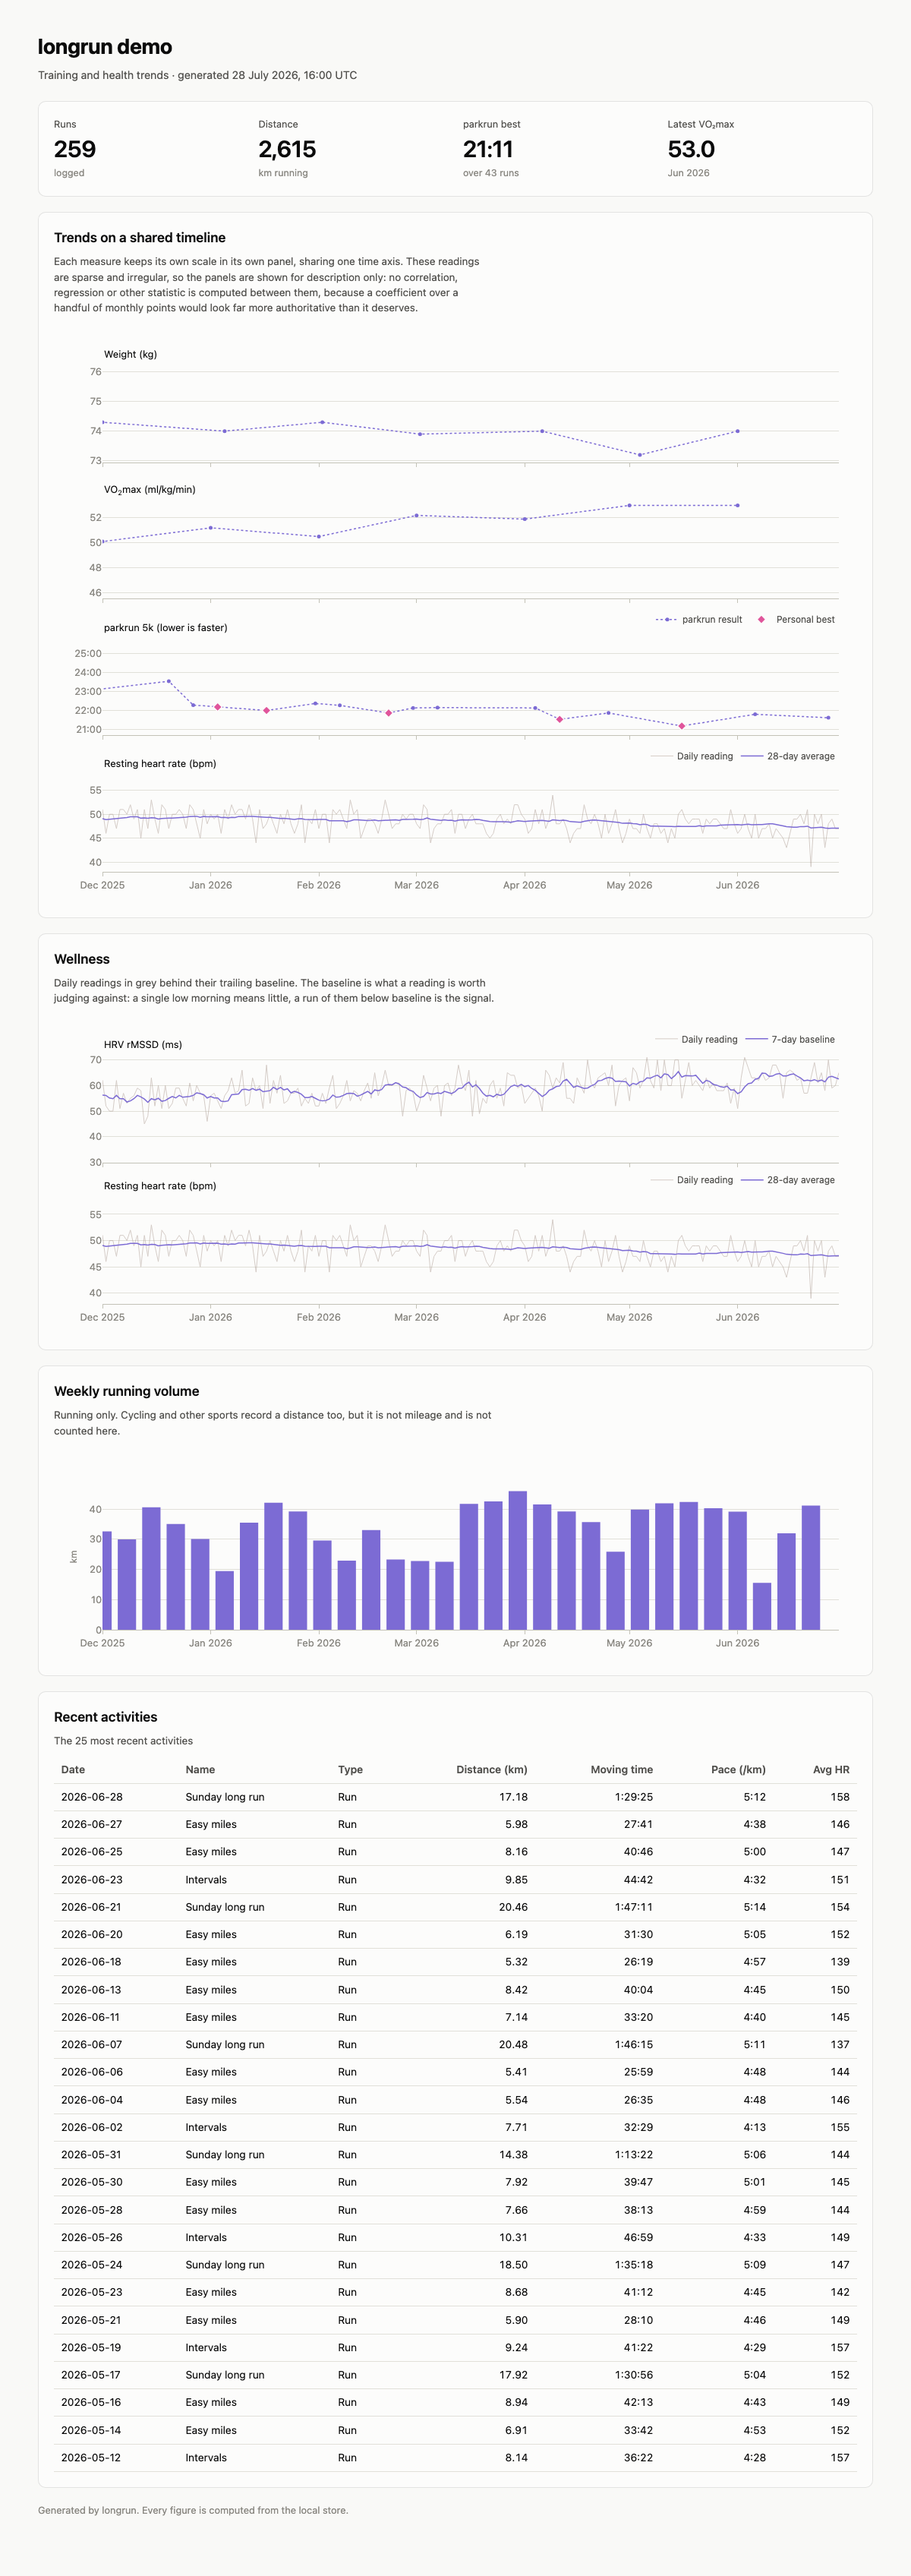
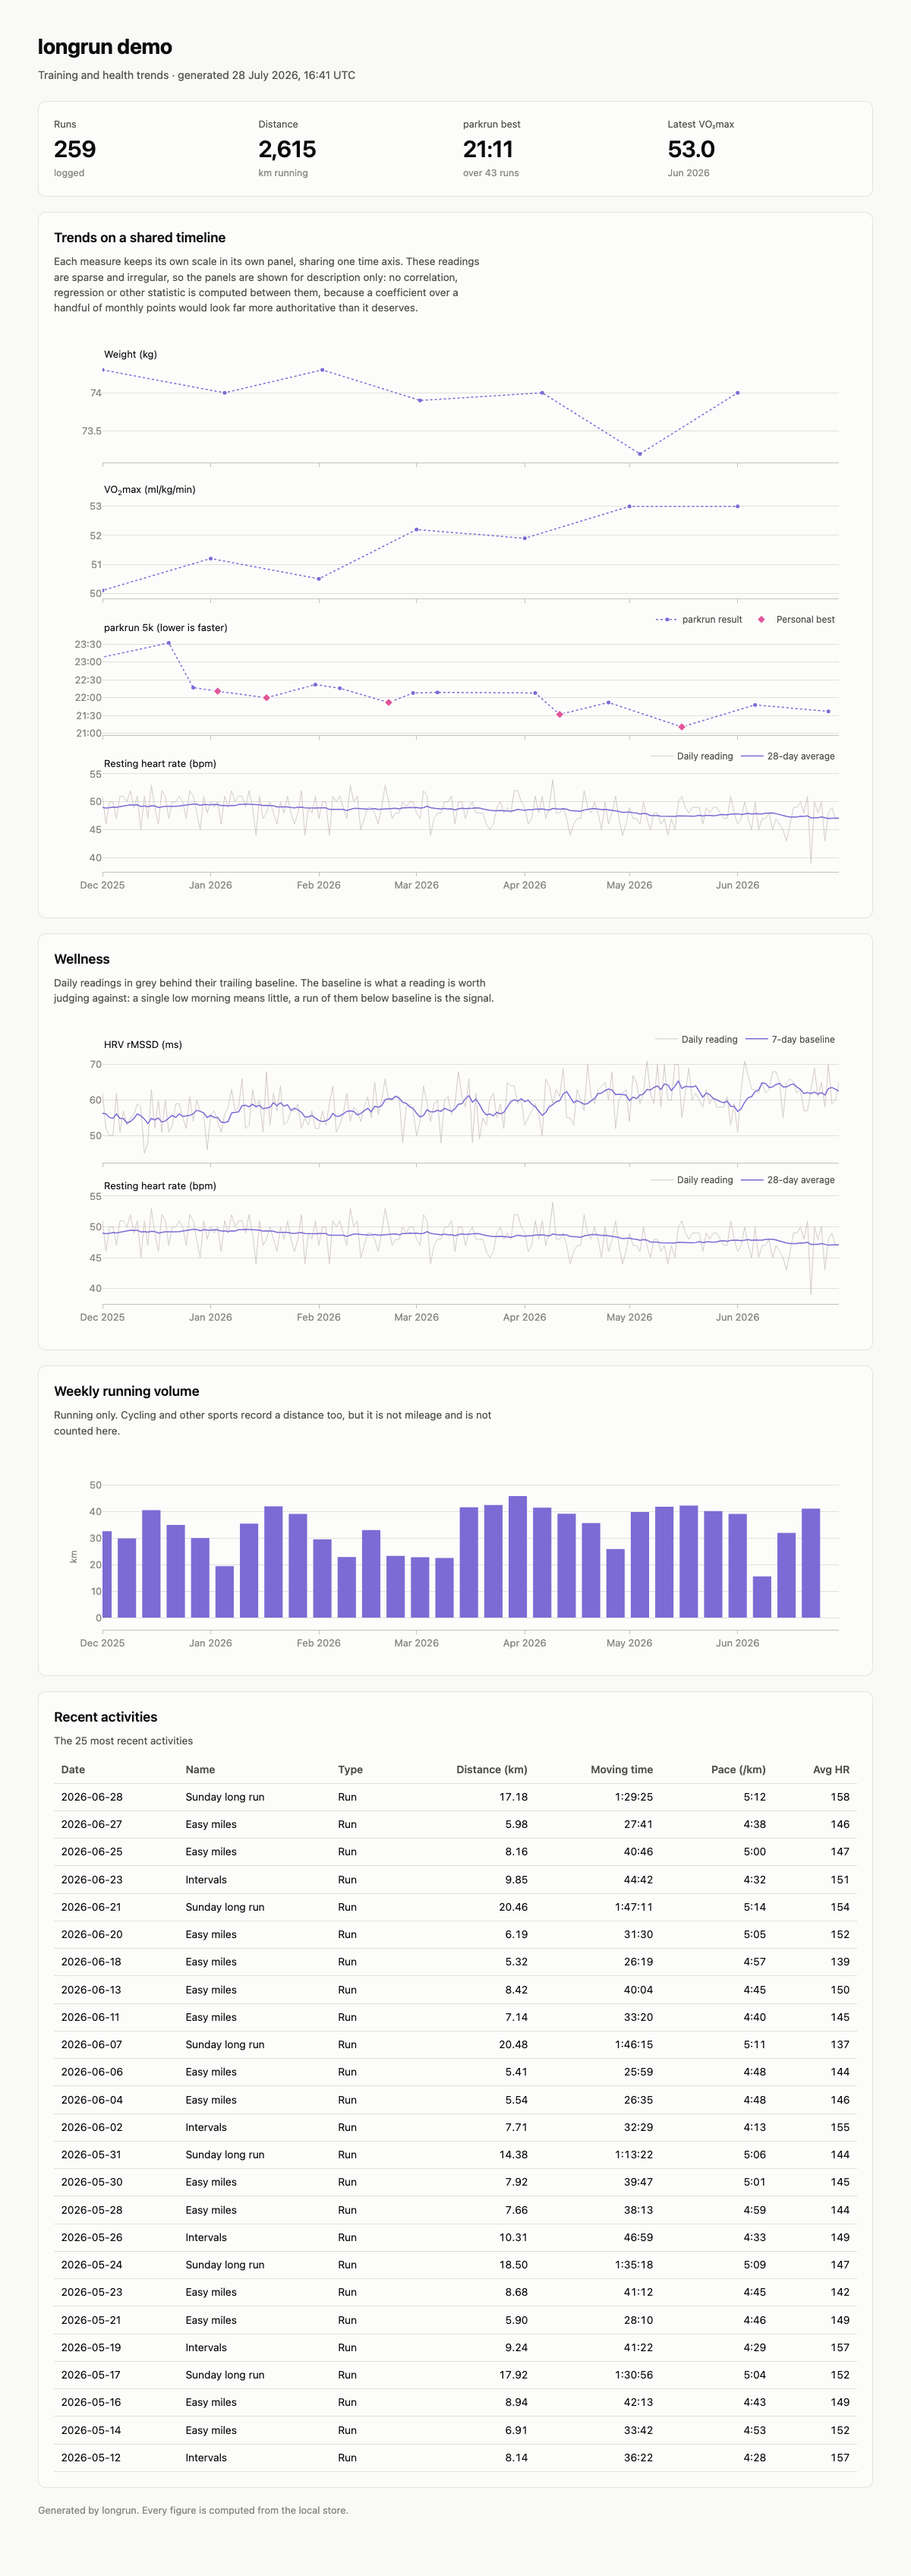
Scale each panel to what its window actually shows
Plotly ranges a y-axis over every point in the trace, including the ones now
off the left-hand edge. A personal best set last year was therefore squashing
this year's parkrun results into half a panel to leave room for a marker
nobody could see. Each y-axis is now fitted to the points inside the window,
and the mm:ss ticks with it. Bars keep zero in range, since a bar is read
from its baseline whatever the window.

The wellness panel gets the opposite treatment: it starts where its own
readings start. HRV and resting heart rate only exist from the day the watch
began syncing them, and holding them to the shared six-month timeline opened
the section with two months of blank axis. It can only narrow the window it
is given, so an explicit --since still holds.

diff --git a/src/longrun/report/figures.py b/src/longrun/report/figures.py
@@ -94,8 +94,9 @@ def build_trend_figure(
     # describe, so each gets its own legend anchored to its own panel.
     _place_panel_legend(figure, legend="legend2", row=3)
     _place_panel_legend(figure, legend="legend3", row=4)
-    if not parkrun.empty:
-        ticks, labels = _duration_ticks(parkrun["value"])
+    shown = _within(parkrun, "date", window)
+    if not shown.empty:
+        ticks, labels = _duration_ticks(shown["value"])
         figure.update_yaxes(tickvals=ticks, ticktext=labels, row=3, col=1)
 
     _apply_window(figure, window)
@@ -112,9 +113,15 @@ def build_wellness_figure(
     share no scale and a twinned axis would invite reading a relationship
     off the crossing points.
 
+    Unlike the trend view, this figure starts where its own data starts. HRV
+    and resting heart rate arrive together and only from the day the watch
+    began syncing them, so holding them to the shared timeline would open the
+    section with months of blank axis. The two panels still share a timeline
+    with each other, which is the comparison that matters here.
+
     Args:
         data: Loaded report frames.
-        window: Date range every panel is pinned to, for alignment.
+        window: Date range to respect, narrowed to where the readings begin.
 
     Returns:
         The wellness figure.
@@ -123,6 +130,7 @@ def build_wellness_figure(
         frames.wellness_series(data.wellness, "hrv_rmssd"), frames.HRV_BASELINE_WINDOW
     )
     resting = frames.resting_hr_trend(data.wellness)
+    window = _from_first_reading(window, hrv, resting.rename(columns={"resting_hr": "value"}))
 
     figure = make_subplots(
         rows=2,
@@ -638,6 +646,12 @@ def _apply_window(figure: go.Figure, window: tuple[dt.date, dt.date] | None) -> 
     view narrows. A series with a week of readings and one with two years
     then sit on the same timeline, which is the point of the shared view.
 
+    Each y-axis is then fitted to what the window actually shows. Left to
+    itself, Plotly scales an axis to every point in the trace, including the
+    ones now off the left-hand edge - so a personal best set two years ago
+    squashes this year's results into half a panel to leave room for a marker
+    nobody can see.
+
     Args:
         figure: The figure to constrain.
         window: `(start, end)` dates, or None to leave auto-ranging alone.
@@ -646,6 +660,82 @@ def _apply_window(figure: go.Figure, window: tuple[dt.date, dt.date] | None) -> 
         return
     start, end = window
     figure.update_xaxes(range=[start.isoformat(), end.isoformat()])
+    _fit_y_to_window(figure, window)
+
+
+_Y_PADDING = 0.10
+"""Share of the visible spread left as breathing room above and below."""
+
+
+def _fit_y_to_window(figure: go.Figure, window: tuple[dt.date, dt.date]) -> None:
+    """Scale each y-axis to the points inside the window."""
+    first, last = pd.Timestamp(window[0]), pd.Timestamp(window[1])
+
+    visible: dict[str, list[float]] = {}
+    for trace in figure.data:
+        xs, ys = getattr(trace, "x", None), getattr(trace, "y", None)
+        if xs is None or ys is None:
+            continue
+        values = visible.setdefault(str(trace.yaxis or "y"), [])
+        # A bar is read from the baseline, so its axis has to include zero
+        # whatever the bars themselves reach.
+        if trace.type == "bar":
+            values.append(0.0)
+        values.extend(
+            float(y)
+            for x, y in zip(xs, ys, strict=True)
+            if y is not None and not pd.isna(y) and first <= pd.Timestamp(x) <= last
+        )
+
+    for axis, values in visible.items():
+        if not values:
+            # Nothing visible on this panel; auto-ranging says more than an
+            # invented range would.
+            continue
+        low, high = min(values), max(values)
+        padding = (high - low) * _Y_PADDING or max(abs(high) * 0.02, 0.5)
+        key = f"yaxis{axis[1:]}" if len(axis) > 1 else "yaxis"
+        figure.update_layout({key: {"range": [low - padding, high + padding]}})
+
+
+def _from_first_reading(
+    window: tuple[dt.date, dt.date] | None, *frames_: pd.DataFrame
+) -> tuple[dt.date, dt.date] | None:
+    """Move a window's start forward to the first reading in these frames.
+
+    Only ever narrows. A window asked for explicitly still holds, and a
+    figure whose series begins later than that simply does not open with
+    empty axis.
+
+    Args:
+        window: The window to narrow, or None to leave auto-ranging alone.
+        *frames_: Frames carrying a `date` column.
+
+    Returns:
+        The narrowed window, or None when there was none to narrow.
+    """
+    if window is None:
+        return None
+    firsts = [
+        pd.Timestamp(frame["date"].min()).date()
+        for frame in frames_
+        if not frame.empty and "date" in frame
+    ]
+    if not firsts:
+        return window
+    start, end = window
+    return max(start, min(firsts)), end
+
+
+def _within(
+    frame: pd.DataFrame, date_column: str, window: tuple[dt.date, dt.date] | None
+) -> pd.DataFrame:
+    """Return the rows falling inside a window, or all of them without one."""
+    if window is None or frame.empty:
+        return frame
+    dates = pd.to_datetime(frame[date_column])
+    first, last = pd.Timestamp(window[0]), pd.Timestamp(window[1])
+    return frame.loc[(dates >= first) & (dates <= last)]
 
 
 def _apply_base_layout(figure: go.Figure) -> None:

diff --git a/tests/test_report.py b/tests/test_report.py
@@ -8,7 +8,7 @@ import pandas as pd
 import pytest
 
 from longrun.analysis.cycle import cycles_from_days
-from longrun.models import Activity
+from longrun.models import Activity, Metric
 from longrun.report import build_report, load_report_data
 from longrun.report.figures import (
     build_cycle_figure,
@@ -429,3 +429,50 @@ def test_duration_formatting() -> None:
     assert format_duration(1367) == "22:47"
     assert format_duration(5344) == "1:29:04"
     assert format_duration(59.6) == "1:00"
+
+
+def test_a_narrowed_view_scales_its_y_axes_to_what_it_shows(seeded_store: Store) -> None:
+    """An off-screen personal best must not squash this year into half a panel."""
+    data = load_report_data(seeded_store)
+    recent = (dt.date(2026, 6, 1), dt.date(2026, 6, 30))
+
+    figure = build_trend_figure(data, recent)
+
+    low, high = figure.layout.yaxis3.range
+    shown = metric_series(data.tests, Metric.PARKRUN_5K)
+    inside = shown.loc[
+        (shown["date"] >= pd.Timestamp(recent[0])) & (shown["date"] <= pd.Timestamp(recent[1]))
+    ]
+    assert low <= inside["value"].min()
+    assert high >= inside["value"].max()
+    # The all-time best predates the window, so the axis must not reach it.
+    assert low > shown["value"].min()
+
+
+def test_the_whole_history_still_scales_to_everything(seeded_store: Store) -> None:
+    data = load_report_data(seeded_store)
+
+    figure = build_trend_figure(data, None)
+
+    assert figure.layout.yaxis3.range is None
+
+
+def test_the_wellness_panel_starts_where_its_readings_do(seeded_store: Store) -> None:
+    """HRV and resting HR arrive later than the rest; blank axis says nothing."""
+    data = load_report_data(seeded_store)
+    generous = (dt.date(2020, 1, 1), dt.date(2026, 6, 30))
+
+    figure = build_wellness_figure(data, generous)
+
+    start = dt.date.fromisoformat(str(figure.layout.xaxis.range[0]))
+    first_reading = data.wellness.loc[data.wellness["hrv_rmssd"].notna(), "date"].min().date()
+    assert start == first_reading
+
+
+def test_the_wellness_panel_never_widens_a_window_it_was_given(seeded_store: Store) -> None:
+    data = load_report_data(seeded_store)
+    narrow = (dt.date(2026, 6, 1), dt.date(2026, 6, 30))
+
+    figure = build_wellness_figure(data, narrow)
+
+    assert dt.date.fromisoformat(str(figure.layout.xaxis.range[0])) == narrow[0]

diff --git a/README.md b/README.md
@@ -261,6 +261,13 @@ start and `--all` shows everything.
 The window is applied to the axis, never by dropping rows, so a personal best
 set two years ago is still marked as one and a rolling baseline is still
 computed over the whole history — they simply sit off the left of the view.
+Each panel's vertical scale then fits what the window shows, so an off-screen
+personal best cannot squash this year's results into half a panel to leave
+room for a marker nobody can see.
+
+The wellness panel is the exception: it starts where its own readings start.
+HRV and resting heart rate only exist from the day the watch began syncing
+them, and opening that section with months of blank axis says nothing.
 
 ### Ignoring a reading the watch got wrong
 
@@ -486,6 +493,13 @@ Type hints throughout, docstrings on public functions, `mypy --strict` clean.
 - **v1.2 – LLM weekly narrative.** A short written summary of the week, phrasing
   figures already computed by v1.0 and v1.1. It does not see the database, and
   it does not produce numbers or plans.
+
+**Under consideration:** generating the plan through real model calls rather
+than only narrating it. That is a change to the design principle above, not an
+addition to it, so it is written down as a decision owed rather than a feature
+queued – see `CLAUDE.md`. The likeliest shape is the model proposing a session
+and deterministic code validating it against the block, the backlog cap and
+the readiness verdict, with every number still coming from the engine.
 
 ## Licence
 
